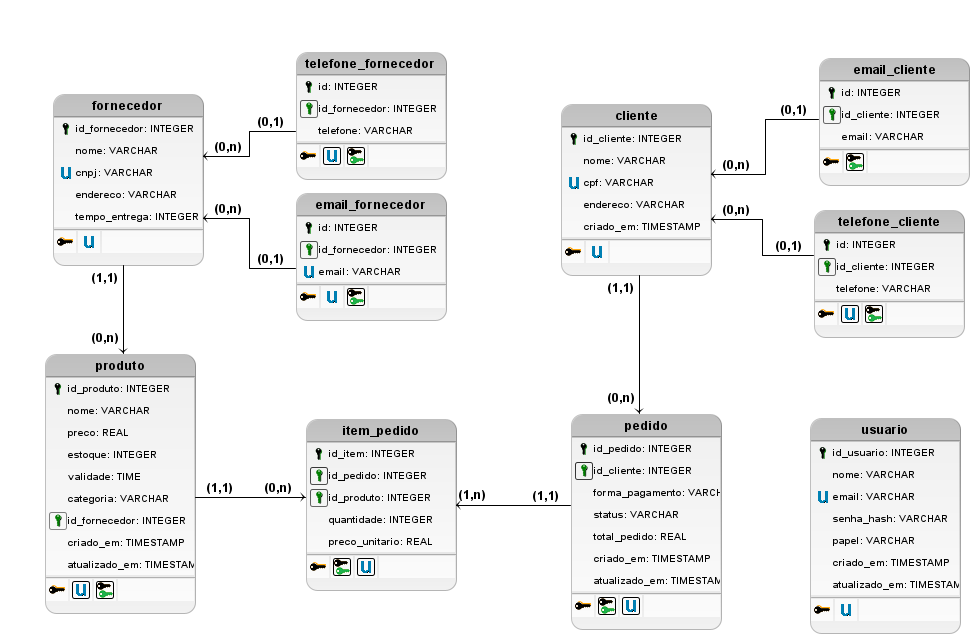
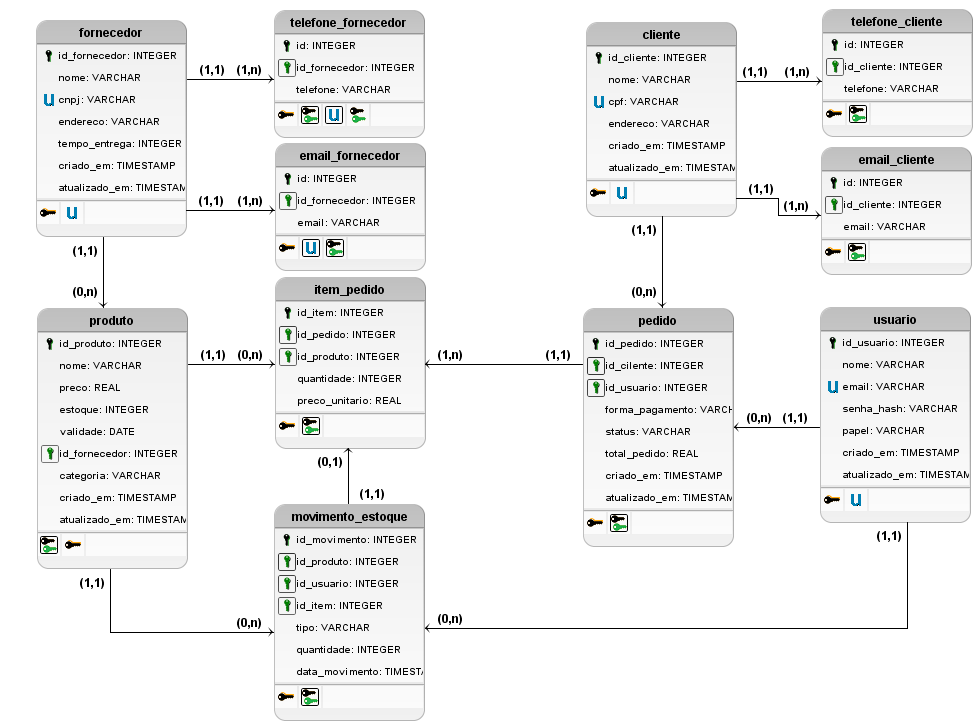
att: Atualizar DER/Logico/Entrevista conforme novas tabelas

diff --git a/docs/relatorios/entrevista01.md b/docs/relatorios/entrevista01.md
@@ -233,8 +233,9 @@ As principais entidades identificadas foram:
 - **Cliente**: armazena os dados dos clientes cadastrados no sistema. 
 - **Fornecedor**: armazena os dados dos fornecedores que abastecem os produtos. 
 - **Produto**: armazena as informações dos produtos disponíveis para venda, vinculados a um fornecedor. 
-- **Pedido**: representa as vendas realizadas, associando clientes aos produtos adquiridos. 
+- **Pedido**: representa as vendas realizadas, associando clientes e usuários aos produtos adquiridos. 
 - **ItemPedido**: detalha os produtos contidos em cada pedido (entidade fraca que resolve o N:N entre `Pedido` e `Produto`). 
+- **MovimentoEstoque**: registra as movimentações de entrada e saída de estoque, vinculadas a produtos, itens de pedido e usuários. 
 - **Usuário**: representa os funcionários autorizados a operar o sistema (atende ao RF13 e RNF04). 
 
 A seguir, são descritas as entidades e seus principais atributos: 
@@ -245,8 +246,10 @@ A seguir, são descritas as entidades e seus principais atributos:
 - `nome` 
 - `cpf` (único) 
 - `endereço` 
-- `email` (multivalorado) 
-- `telefone` (multivalorado) 
+- `telefone` (multivalorado — tabela `telefone_cliente`) 
+- `email` (multivalorado — tabela `email_cliente`) 
+- `criado_em` 
+- `atualizado_em` 
 
 ### Fornecedor 
 
@@ -255,34 +258,51 @@ A seguir, são descritas as entidades e seus principais atributos:
 - `cnpj` (único) 
 - `endereço` 
 - `tempo_entrega` 
-- `email` (multivalorado) 
-- `telefone` (multivalorado) 
+- `telefone` (multivalorado — tabela `telefone_fornecedor`) 
+- `email` (multivalorado — tabela `email_fornecedor`) 
+- `criado_em` 
+- `atualizado_em` 
 
 ### Produto 
 
 - `id_produto` (chave primária) 
 - `nome` 
+- `preco` 
 - `estoque` 
 - `validade` 
-- `preço` 
 - `id_fornecedor` (chave estrangeira → Fornecedor) 
 - `categoria` 
+- `criado_em` 
+- `atualizado_em` 
 
 ### Pedido 
 
 - `id_pedido` (chave primária) 
 - `id_cliente` (chave estrangeira → Cliente) 
-- `data_pedido` 
-- `valor_total` (derivado) 
+- `id_usuario` (chave estrangeira → Usuário) 
 - `forma_pagamento` (DINHEIRO, CARTAO, PIX, FIADO) 
 - `status` (PENDENTE, PAGO, CANCELADO) 
+- `total_pedido` (derivado) 
+- `criado_em` 
+- `atualizado_em` 
 
 ### ItemPedido 
 
-- `id_pedido` (chave estrangeira → Pedido, parte da PK composta) 
-- `id_produto` (chave estrangeira → Produto, parte da PK composta) 
+- `id_item` (chave primária) 
+- `id_pedido` (chave estrangeira → Pedido) 
+- `id_produto` (chave estrangeira → Produto) 
 - `quantidade` 
-- `preço_unitário` (congelado no momento da venda)  
+- `preco_unitario` (congelado no momento da venda)  
+
+### MovimentoEstoque 
+
+- `id_movimento` (chave primária) 
+- `id_produto` (chave estrangeira → Produto) 
+- `id_usuario` (chave estrangeira → Usuário) 
+- `id_item` (chave estrangeira → ItemPedido) 
+- `tipo` (ENTRADA, SAIDA) 
+- `quantidade` 
+- `data_movimento` 
 
 ### Usuário 
 
@@ -291,15 +311,21 @@ A seguir, são descritas as entidades e seus principais atributos:
 - `email` (único) 
 - `senha_hash` 
 - `papel` (FUNCIONARIO, ADMIN) 
+- `criado_em` 
+- `atualizado_em` 
 
 ### Relacionamentos 
 
-- **Cliente (1,1) — tem — (0,N) Pedido**: um cliente pode realizar vários pedidos; cada pedido pertence a um único cliente. 
-- **Pedido (1,1) — contém — (1,N) ItemPedido**: cada pedido possui pelo menos um item. 
-- **Produto (1,1) — está em — (0,N) ItemPedido**: um produto pode aparecer em vários pedidos via `ItemPedido`. 
-- **Fornecedor (1,1) — fornece — (1,N) Produto**: um fornecedor abastece vários produtos; cada produto possui um fornecedor. 
+- **Cliente (1,1) — Comprar — (0,N) Pedido**: um cliente pode realizar vários pedidos; cada pedido pertence a um único cliente. 
+- **Usuário (1,1) — Registrar — (0,N) Pedido**: um usuário pode registrar vários pedidos; cada pedido é registrado por um único usuário. 
+- **Pedido (1,1) — Possuir — (0,N) ItemPedido**: cada pedido pode possuir vários itens. 
+- **Produto (1,1) — Estar_em — (0,N) ItemPedido**: um produto pode aparecer em vários pedidos via `ItemPedido`. 
+- **Fornecedor (1,1) — Fornecer — (0,N) Produto**: um fornecedor abastece vários produtos; cada produto possui um fornecedor. 
+- **Produto (1,1) — Reajustar — (0,N) MovimentoEstoque**: um produto pode ter várias movimentações de estoque. 
+- **ItemPedido (0,1) — Referenciar — (0,N) MovimentoEstoque**: um item de pedido pode gerar movimentações de estoque. 
+- **Usuário (1,1) — Controlar — (0,N) MovimentoEstoque**: um usuário pode controlar várias movimentações de estoque. 
 
-A entidade `ItemPedido` resolve o relacionamento muitos-para-muitos entre `Pedido` e `Produto`. Esse modelo garante flexibilidade, permitindo que um pedido contenha múltiplos produtos e que os dados sejam armazenados de forma consistente. 
+A entidade `ItemPedido` resolve o relacionamento muitos-para-muitos entre `Pedido` e `Produto`. A entidade `MovimentoEstoque` registra todas as entradas e saídas de estoque, vinculando-se a produtos, itens de pedido e usuários responsáveis. Esse modelo garante rastreabilidade completa das operações. 
 
 ## 11. Considerações Finais
 O sistema de pedidos para a loja de bebidas proporcionará maior eficiência operacional, segurança e organização. Além disso, permitirá que gestores tenham informações estratégicas para tomada de decisão, reduzindo falhas e aumentando a competitividade da empresa.
